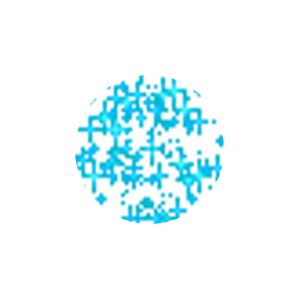
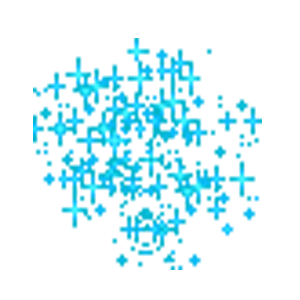
added added death explosion/image

Changed region(s): [[0.09, 0.12, 0.87, 0.9], [0.69, 0.15, 0.72, 0.18], [0.36, 0.78, 0.39, 0.81]]

diff --git a/src/constants/Images.java b/src/constants/Images.java
@@ -17,25 +17,32 @@ public class Images {
 	public static Image tileUnwalkable;
 	public static Image tileBoth;
 
-	public static Image bear;
-	public static Image elephant;
-	public static Image moose;
-	public static Image tank;
 	public static Image normalSoldier;
-	public static Image fastSoldier ;
+	public static Image fastSoldier;
 	public static Image normalPlane;
-	public static Image fastPlane ;
-	public static Image armoredPlane ;
+	public static Image fastPlane;
+	public static Image armoredPlane;
 	public static Image heavyPlane;
 	public static Image normalTank;
-	public static Image fastTank ;
-	public static Image armoredTank ;
+	public static Image fastTank;
+	public static Image armoredTank;
 	public static Image heavyTank;
 	public static Image normalCar;
-	public static Image fastCar ;
-	public static Image armoredCar ;
+	public static Image fastCar;
+	public static Image armoredCar;
 	public static Image heavyCar;
 
+	public static Image normalCarDead;
+	public static Image normalPlaneDead;
+	public static Image heavyPlaneDead;
+	public static Image normalTankDead;
+	public static Image fastTankDead;
+	public static Image armoredTankDead;
+	public static Image heavyTankDead;
+
+	
+	
+	
 	public static Image normalTower;
 	public static Image groundAttackTower;
 	public static Image AirAttackTower;
@@ -50,10 +57,15 @@ public class Images {
 	
 	public static Image normalBullet;
 	public static Image piercingBullet;
-	public static Image bomb;
+	public static Image missileBullet;
 	public static Image fireBullet;
 	public static Image iceBullet;
+	public static Image airBullet;
+	public static Image groundBullet;
+	public static Image armorBreakerBullet;
 
+	
+	
 	public static Image attackIcon;
 	public static Image bombIcon;
 	public static Image cooldownIcon;
@@ -103,12 +115,13 @@ public class Images {
 
 	
 	public static final Image[] explosion = new Image[16];
+	public static final Image[] deathExplosion = new Image[16];
 	public static final Image[] flame = new Image[16];
 	public static final Image[] smoke = new Image[9];
 	public static final Image[] aura = new Image[16];
 	public static final Image[] boom = new Image[16];
 	public static final Image[] spark = new Image[8];
-	public static final Image[] blood = new Image[13];
+	public static final Image[] blood = new Image[12];
 	
 	
 	public static final Image[][] arrows = new Image[4][4];
@@ -158,15 +171,15 @@ public class Images {
 		armoredCar =  new Image("monster/car_armored.png", 80, 80, true, true);
 		heavyCar = new Image("monster/car_heavy.png", 80, 80, true, true);
 		
+		normalCarDead = new Image("monster/dead/car.png", 80, 80, true, true);
+		normalPlaneDead = new Image("monster/dead/plane.png", 80, 80, true, true);
+		heavyPlaneDead = new Image("monster/dead/plane_heavy.png", 80, 80, true, true);
+		normalTankDead = new Image("monster/dead/tank.png", 64, 64, true, true);
+		fastTankDead = new Image("monster/dead/tank_fast.png", 64, 64, true, true);
+		armoredTankDead = new Image("monster/dead/tank_armored.png", 64, 64, true, true);
+		heavyTankDead = new Image("monster/dead/tank_heavy.png", 64, 64, true, true);
 		
-		getProgress().set(0.3);
-		normalTower = new Image("tower/tower1.png", 64, 64, true, true);
-		groundAttackTower = new Image("tower/tower2.png", 64, 64, true, true);
-		AirAttackTower = new Image("tower/tower3.png", 64, 64, true, true);
-		bombTower = new Image("tower/missile1.png", 64, 64, true, true);
-		fireTower = new Image("tower/flame.png", 64, 64, true, true);
-		iceTower = new Image("tower/ice.png", 64, 64, true, true);
-		
+		getProgress().set(0.3);	
 		String[] towerTypes = {"Air", "ArmorBreaker", "Buff",
 				"Bomb", "Fire", "Ground", "Ice", "Missile", "Default"};
 		towerImages = new HashMap<>();
@@ -185,9 +198,13 @@ public class Images {
 		getProgress().set(0.4);
 		normalBullet = new Image("projectile/normalBullet.png", 30, 30, true, true);
 		piercingBullet = new Image("projectile/piercingBullet.png", 48, 48, true, true);
-		bomb = new Image("projectile/missileBullet.png", 30, 30, true, true);
+		missileBullet = new Image("projectile/missileBullet.png", 30, 30, true, true);
 		fireBullet = new Image("projectile/fireBullet.png", 30, 30, true, true);
 		iceBullet = new Image("projectile/iceBullet.png", 30, 30, true, true);
+		airBullet = new Image("projectile/airBullet.png", 30, 30, true, true);
+		groundBullet = new Image("projectile/groundBullet.png", 30, 30, true, true);
+		armorBreakerBullet = new Image("projectile/armorBreakerBullet.png", 30, 30, true, true);
+		
 		attackIcon = new Image("icon/attack.png", 32, 32, true, true);
 		bombIcon = new Image("icon/bomb.png", 32, 32, true, true);
 		cooldownIcon = new Image("icon/cooldown.png", 32, 32, true, true);
@@ -241,6 +258,8 @@ public class Images {
 		
 		for (int i=0; i<16; i++)
 			explosion[i] = new Image("animation/explosion/"+i+".png", 96, 96, true, true);
+		for (int i=0; i<16; i++)
+			deathExplosion[i] = new Image("animation/death_explosion/"+i+".png", 128, 128, true, true);
 
 		
 		getProgress().set(0.6);
@@ -260,7 +279,7 @@ public class Images {
 		for (int i=0; i<16; i++)
 			boom[i] = new Image("animation/boom/"+i+".png", 256, 256, true, true);
 		
-		for (int i=0; i<13; i++)
+		for (int i=0; i<12; i++)
 			blood[i] = new Image("animation/blood/"+i+".png", 64, 64, true, true);
 		
 		for (int i=0; i<8; i++)

diff --git a/src/model/projectile/HomingMissle.java b/src/model/projectile/HomingMissle.java
@@ -1,5 +1,6 @@
 package model.projectile;
 
+import constants.Images;
 import controller.game.GameManager;
 import javafx.scene.image.Image;
 import model.Monster;
@@ -13,9 +14,9 @@ public class HomingMissle extends NormalProjectile {
 	protected double radius;
 	protected Monster target;
 	
-	public HomingMissle(Image image, double x, double y,
+	public HomingMissle(double x, double y,
 			double vx, double vy, double maxRange, double damage, double radius, Monster target) {
-		super(image, x, y, vx, vy, maxRange, damage); // default size ?
+		super(Images.missileBullet, x, y, vx, vy, maxRange, damage); // default size ?
 		this.radius = radius;
 		this.damage = damage;
 		this.target = target;
@@ -33,7 +34,7 @@ public class HomingMissle extends NormalProjectile {
 	public boolean collideWith(Monster m) {
 		if (shouldCollide(m) || distanceTo(target) < 0.2) { // collide with dead monster
 			cpp.pff impact = m.getPosition();
-			GameManager.getInstance().addParticle(new Explosion(impact.first, impact.second, 0, 0));
+			GameManager.getInstance().addParticle(new Explosion(Images.explosion, impact.first, impact.second, 0, 0));
 			GameManager.getInstance().addParticle(new Crater(impact.first, impact.second, 3000));
 			for (Monster ms: GameManager.getInstance().getMonsters()) {
 				if (ms.distanceTo(impact.first, impact.second) < radius+ms.getSize()) {

diff --git a/src/model/projectile/Missile.java b/src/model/projectile/Missile.java
@@ -1,5 +1,6 @@
 package model.projectile;
 
+import constants.Images;
 import controller.game.GameManager;
 import javafx.scene.image.Image;
 import model.Monster;
@@ -12,9 +13,9 @@ public class Missile extends NormalProjectile {
 	
 	protected double radius;
 	
-	public Missile(Image image, double x, double y,
+	public Missile(double x, double y,
 			double vx, double vy, double maxRange, double damage, double radius) {
-		super(image, x, y, vx, vy, maxRange, damage); // default size ?
+		super(Images.missileBullet, x, y, vx, vy, maxRange, damage); // default size ?
 		this.radius = radius;
 		this.damage = damage;
 		this.targetFlag = 1;
@@ -23,7 +24,7 @@ public class Missile extends NormalProjectile {
 	public boolean collideWith(Monster m) {
 		if (shouldCollide(m)) {
 			cpp.pff impact = m.getPosition();
-			Particle p = new Explosion(impact.first, impact.second, 0, 0),
+			Particle p = new Explosion(Images.explosion, impact.first, impact.second, 0, 0),
 					p2 = new Crater(impact.first, impact.second, 5000);
 			p.setzIndex(3);
 			GameManager.getInstance().addParticle(p);

diff --git a/src/model/monster/SplittingMonster.java b/src/model/monster/SplittingMonster.java
@@ -1,21 +1,13 @@
 package model.monster;
 
-import constants.Images;
-import controller.game.GameManager;
 import javafx.scene.image.Image;
-import util.cpp.pff;
 
-public class SplittingMonster extends GroundMonster {
+public abstract class SplittingMonster extends GroundMonster {
 
 	public SplittingMonster(String name, Image image, double x, double y, double size, double health, double armor,
 			double moveSpeed, int money) {
 		super(name, image, x, y, size, health, armor, moveSpeed, money);
 	}	
 	
-	public void onDeath() {
-		pff pos = getPosition();
-		for (int i=0; i<5; i++)
-			GameManager.getInstance().addMonsterDefault(new GroundMonster("Moose", Images.moose,
-					pos.first+(Math.random()-0.5)*0.2, pos.second+(Math.random()-0.5)*0.2, 0.3, 30, 3, 1.5, 3));
-	}
+	public abstract void onDeath();
 }

diff --git a/src/model/tower/GroundAttackTower.java b/src/model/tower/GroundAttackTower.java
@@ -7,6 +7,7 @@ import javafx.scene.image.Image;
 import model.FadingParticle;
 import model.Particle;
 import model.Tower;
+import model.projectile.GroundProjectile;
 import model.projectile.NormalProjectile;
 import model.projectile.SplittingProjectile;
 import util.GameUtil;
@@ -26,7 +27,7 @@ public class GroundAttackTower extends Tower {
 		rotateTo(currentTarget);
 		if (level < 5) {
 		GameManager.getInstance().addProjectile(new 
-				NormalProjectile(Images.normalBullet, x, y, v.first*15, v.second*15, range, attack));
+				GroundProjectile(x, y, v.first*15, v.second*15, range, attack));
 				Particle p = new FadingParticle(Images.normalTowerFlash, x+v.first*0.6 , y+v.second*0.6, 0, 0, 300);
 				p.rotateTo(currentTarget);
 				GameManager.getInstance().addParticle(p);

diff --git a/src/model/tower/AirAttackTower.java b/src/model/tower/AirAttackTower.java
@@ -7,6 +7,7 @@ import javafx.scene.image.Image;
 import model.FadingParticle;
 import model.Particle;
 import model.Tower;
+import model.projectile.AirProjectile;
 import model.projectile.NormalProjectile;
 import model.projectile.SplittingProjectile;
 import util.GameUtil;
@@ -27,7 +28,7 @@ public class AirAttackTower extends Tower {
 		rotateTo(currentTarget);
 		if (level < 5) {
 		GameManager.getInstance().addProjectile(new 
-				NormalProjectile(Images.normalBullet, x, y, v.first*15, v.second*15, range, attack));
+				AirProjectile(x, y, v.first*15, v.second*15, range, attack));
 				Particle p = new FadingParticle(Images.normalTowerFlash, x+v.first*0.6 , y+v.second*0.6, 0, 0, 300);
 				p.rotateTo(currentTarget);
 				GameManager.getInstance().addParticle(p);

diff --git a/src/model/monster/FastTank.java b/src/model/monster/FastTank.java
@@ -1,7 +1,10 @@
 package model.monster;
 
 import constants.Images;
+import controller.game.GameManager;
 import javafx.scene.image.Image;
+import model.Particle;
+import model.particle.Explosion;
 
 public class FastTank extends Tank {
 
@@ -21,8 +24,15 @@ public class FastTank extends Tank {
 	public FastTank(double x, double y, double modifier) {
 		this(x, y, DEFAULT_HEALTH*(1+modifier), DEFAULT_ARMOR+(0.5+modifier), 
 				DEFAULT_MS*(1+modifier*0.05), (int)(DEFAULT_MONEY*(1+modifier*0.2)));
-		level = modifier;
-		
+		level = modifier;	
+	}
+	
+	@Override
+	public void onDeath() {
+		super.onDeath();
+		Particle part = new Particle(Images.fastTankDead, x, y, 0, 0, 2000);
+		part.setRotation(rotation);
+		GameManager.getInstance().addParticle(part);
 	}
 	
 

diff --git a/src/model/particle/Explosion.java b/src/model/particle/Explosion.java
@@ -5,19 +5,17 @@ import javafx.scene.image.Image;
 import model.Particle;
 
 public class Explosion extends Particle {
-	private static Image[] DEFAULT_IMAGE= Images.explosion; 
-	private static double scale;
 
-	public Explosion(double x, double y, double vx, double vy, double size) {
-		super(DEFAULT_IMAGE, x, y, vx, vy, 1000);
+	public Explosion(Image[] image,double x, double y, double vx, double vy) {
+		super(image, x, y, vx, vy, 1000);
 		this.zIndex = 3;
 	}
 	
-	
-	public Explosion(double x, double y, double vx, double vy) {
-		this(x, y, vx, vy, 1);
+	public Explosion(Image image,double x, double y, double vx, double vy) {
+		super(image, x, y, vx, vy, 1000);
+		this.zIndex = 3;
 	}
 	
-	
+
 	
 }

diff --git a/src/model/monster/Tank.java b/src/model/monster/Tank.java
@@ -1,6 +1,9 @@
 package model.monster;
 
+import constants.Images;
+import controller.game.GameManager;
 import javafx.scene.image.Image;
+import model.particle.Explosion;
 
 public abstract class Tank extends GroundMonster {
 
@@ -10,5 +13,11 @@ public abstract class Tank extends GroundMonster {
 	public Tank(Image image, double x, double y, double health, double armor,
 			double moveSpeed, int money) {
 		super("Tank", image, x, y, DEFAULT_SIZE, health, armor, moveSpeed, money);
+	}
+	
+	@Override
+	public void onDeath() {
+		GameManager.getInstance().addParticle(new Explosion(Images.deathExplosion, x, y, 0, 0)); // common death anim for cars		
+		super.onDeath();
 	}
 }

diff --git a/src/model/monster/ArmoredTank.java b/src/model/monster/ArmoredTank.java
@@ -1,7 +1,9 @@
 package model.monster;
 
 import constants.Images;
+import controller.game.GameManager;
 import javafx.scene.image.Image;
+import model.Particle;
 
 public class ArmoredTank extends Tank {
 
@@ -23,6 +25,14 @@ public class ArmoredTank extends Tank {
 		this(x, y, DEFAULT_HEALTH*(1+modifier), DEFAULT_ARMOR*(1+modifier*0.2), 
 				DEFAULT_MS*(1+modifier*0.05), (int)(DEFAULT_MONEY*(1+modifier*0.2)));
 		level = modifier;
+	}
+	
+	@Override
+	public void onDeath() {
+		super.onDeath();
+		Particle part = new Particle(Images.armoredTankDead, x, y, 0, 0, 2000);
+		part.setRotation(rotation);
+		GameManager.getInstance().addParticle(part);
 	}
 	
 

diff --git a/src/model/tower/MissileTower.java b/src/model/tower/MissileTower.java
@@ -40,11 +40,11 @@ public class MissileTower extends Tower {
 		rotateTo(currentTarget);
 		if (level == 5) {
 			GameManager.getInstance().addProjectile(new 
-					HomingMissle(Images.bomb, x, y, v.first*9, v.second*9, range, attack, splashRadius, currentTarget));
+					HomingMissle(x, y, v.first*9, v.second*9, range, attack, splashRadius, currentTarget));
 		}
 		else {			
 			GameManager.getInstance().addProjectile(new 
-					Missile(Images.bomb, x, y, v.first*9, v.second*9, range, attack, splashRadius));
+					Missile(x, y, v.first*9, v.second*9, range, attack, splashRadius));
 		}
 		currentCooldown = attackCooldown;
 	}

diff --git a/src/model/projectile/AirProjectile.java b/src/model/projectile/AirProjectile.java
@@ -1,5 +1,6 @@
 package model.projectile;
 
+import constants.Images;
 import javafx.scene.image.Image;
 import model.Monster;
 import model.Projectile;
@@ -11,9 +12,9 @@ public class AirProjectile extends Projectile {
 	
 	protected boolean isExpired = false;
 	
-	public AirProjectile(Image image, double x, double y,
+	public AirProjectile(double x, double y,
 			double vx, double vy, double maxRange, double damage) {
-		super(image, x, y, vx, vy, maxRange); // default size ?
+		super(Images.airBullet, x, y, vx, vy, maxRange); // default size ?
 		this.damage = damage;
 		this.targetFlag = 2;
 	}
